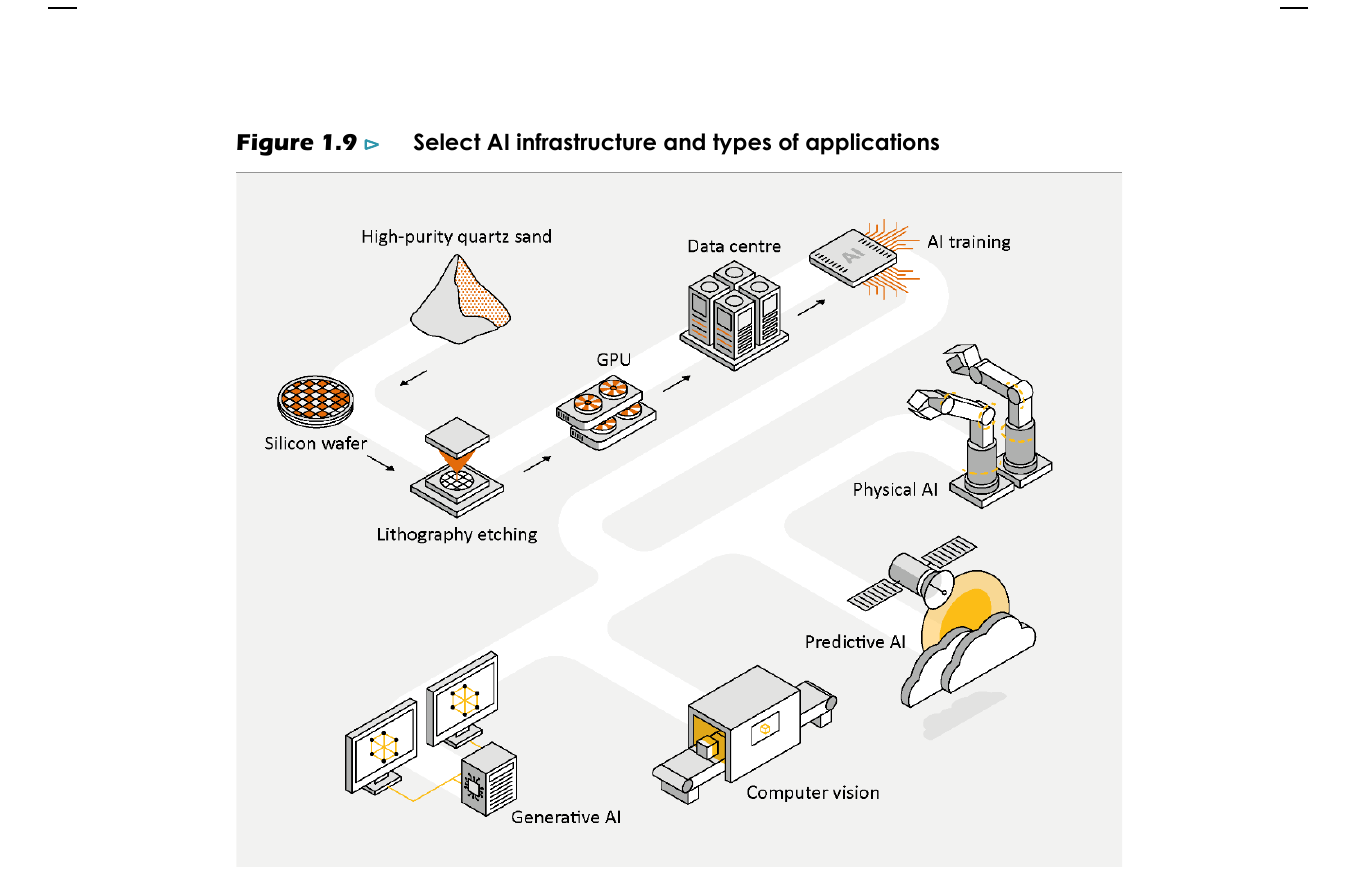
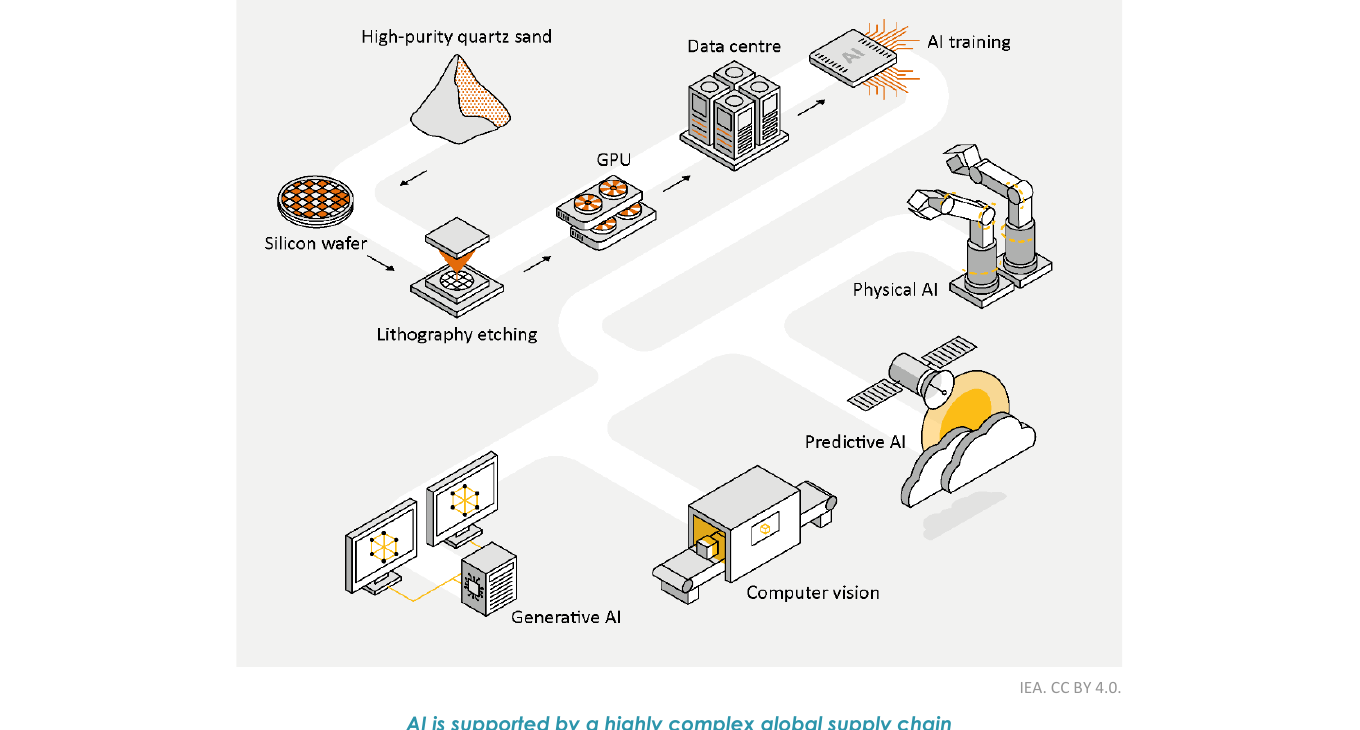
Refine AI slides: fix title, simplify text, update BNEF stat, clean up AI-2
AI-1: Merge subtitle into title; replace wordy text with 2-sentence summary
+ BNEF "nearly two-thirds" fossil fuel stat (BloombergNEF NEO 2025)
AI-2: 60/40 split, larger supply chain image, right side simplified to
5 icon+label items only (no detailed descriptions)

diff --git a/CDE-Outreach-May2026/decarbonization.html b/CDE-Outreach-May2026/decarbonization.html
@@ -716,32 +716,31 @@
 
 <!-- AI-1: AI electricity demand -->
 <section data-background-color="#FFFFFF">
-  <h2>AI Electricity Demand</h2>
+  <h2>AI Electricity Demand: A Fast-Accelerating <span class="nus-orange">"Burden"</span></h2>
   <div class="accent-bar"></div>
-  <p style="font-size:0.72em;color:var(--muted);margin-top:-0.1em;margin-bottom:0.6em;">A Fast-Accelerating <strong style="color:var(--text);">"Burden"</strong></p>
 
-  <div style="display:grid;grid-template-columns:52% 48%;gap:1.4em;margin-top:0.3em;align-items:start;">
+  <div style="display:grid;grid-template-columns:55% 45%;gap:1.6em;margin-top:0.5em;align-items:center;">
 
-    <!-- Left: timeline bars only -->
+    <!-- Left: timeline bars -->
     <div>
-      <div style="font-size:0.57em;font-weight:700;color:var(--muted);text-transform:uppercase;letter-spacing:0.08em;margin-bottom:0.6em;">Global data centre electricity consumption</div>
+      <div style="font-size:0.57em;font-weight:700;color:var(--muted);text-transform:uppercase;letter-spacing:0.08em;margin-bottom:0.65em;">Global data centre electricity consumption</div>
 
-      <div style="margin-bottom:0.7em;">
+      <div style="margin-bottom:0.75em;">
         <div style="display:flex;justify-content:space-between;align-items:baseline;font-size:0.63em;margin-bottom:0.2em;">
           <span style="font-weight:600;">2018</span>
           <span style="color:var(--muted);">~200 TWh &nbsp;·&nbsp; ~1% of global electricity</span>
         </div>
-        <div style="height:24px;background:#E2E8F0;border-radius:6px;">
+        <div style="height:26px;background:#E2E8F0;border-radius:6px;">
           <div style="height:100%;background:#94A3B8;border-radius:6px;width:21%;"></div>
         </div>
       </div>
 
-      <div style="margin-bottom:0.7em;">
+      <div style="margin-bottom:0.75em;">
         <div style="display:flex;justify-content:space-between;align-items:baseline;font-size:0.63em;margin-bottom:0.2em;">
           <span style="font-weight:600;">2024</span>
           <strong style="color:var(--nus-blue);">415 TWh &nbsp;·&nbsp; 1.5% of global electricity</strong>
         </div>
-        <div style="height:24px;background:#E2E8F0;border-radius:6px;">
+        <div style="height:26px;background:#E2E8F0;border-radius:6px;">
           <div style="height:100%;background:var(--nus-blue);border-radius:6px;width:44%;"></div>
         </div>
       </div>
@@ -751,7 +750,7 @@
           <span style="font-weight:600;">2030 <span style="color:var(--muted);font-weight:400;">(projected)</span></span>
           <strong style="color:var(--nus-orange);">~945 TWh &nbsp;·&nbsp; ~3% of global electricity</strong>
         </div>
-        <div style="height:24px;background:#E2E8F0;border-radius:6px;">
+        <div style="height:26px;background:#E2E8F0;border-radius:6px;">
           <div style="height:100%;background:var(--nus-orange);border-radius:6px;width:100%;"></div>
         </div>
       </div>
@@ -761,24 +760,22 @@
       </div>
     </div>
 
-    <!-- Right: key message about fossil fuels -->
-    <div style="display:flex;flex-direction:column;justify-content:center;gap:0.8em;font-size:0.7em;padding-top:0.5em;">
+    <!-- Right: key message -->
+    <div style="display:flex;flex-direction:column;gap:0.9em;font-size:0.72em;">
 
-      <p style="color:var(--text);line-height:1.6;">
-        Ideally, the surge in AI-driven electricity demand should be met entirely by
-        <strong>renewables and clean energy</strong>. However, estimates show that today
-        data centres still rely on <strong style="color:var(--red);">~56% fossil fuels</strong>
-        (coal + gas) for their power supply.
+      <p style="color:var(--text);line-height:1.65;margin:0;">
+        AI is driving a sharp increase in data centre electricity demand.
+        Meeting this with <strong>clean energy</strong> is essential for decarbonization.
       </p>
 
-      <div class="hbox-orange" style="font-size:0.95em;">
-        Coal and gas are projected to meet <strong>&gt;40%</strong> of additional
-        data centre demand through 2030 — making energy transition an urgent necessity,
-        not just an aspiration.
+      <div class="hbox-orange">
+        Nearly <strong>two-thirds</strong> of additional electricity generation
+        to power data centres will still come from fossil fuels —
+        making energy transition an urgent necessity.
       </div>
 
       <div style="font-size:0.75em;color:var(--muted);text-align:right;">
-        Source: IEA, <em>Energy and AI</em> (2025)
+        Source: BloombergNEF, <em>New Energy Outlook</em> (2025)
       </div>
     </div>
   </div>
@@ -789,43 +786,43 @@
   <h2>Environmental Implications of the AI Boom</h2>
   <div class="accent-bar"></div>
 
-  <div style="display:grid;grid-template-columns:50% 50%;gap:1.2em;margin-top:0.3em;align-items:start;">
+  <div style="display:grid;grid-template-columns:60% 40%;gap:1.4em;margin-top:0.3em;align-items:center;">
 
-    <!-- Left: IEA supply chain diagram -->
+    <!-- Left: IEA supply chain diagram (larger) -->
     <div>
       <img src="ai-supply-chain.png"
            style="width:100%;border-radius:8px;border:1px solid var(--border);">
-      <div style="font-size:0.42em;color:var(--muted);margin-top:0.3em;text-align:right;">
-        Source: IEA, <em>Energy and AI</em> (2025), Fig. 1.9. IEA CC BY 4.0
+      <div style="font-size:0.42em;color:var(--muted);margin-top:0.25em;text-align:right;">
+        IEA, <em>Energy and AI</em> (2025), Fig. 1.9 &nbsp;·&nbsp; CC BY 4.0
       </div>
     </div>
 
-    <!-- Right: 5 implications -->
-    <div style="font-size:0.62em;display:flex;flex-direction:column;gap:0.38em;">
+    <!-- Right: 5 items, icon + label only -->
+    <div style="display:flex;flex-direction:column;gap:0.6em;font-size:0.72em;">
 
-      <div class="card card-red" style="padding:0.5em 0.8em;">
-        <span style="font-weight:700;color:var(--red);">① Critical minerals</span><br>
-        <span style="color:var(--muted);">Gallium: 99% refined in China. Rare-earth chips &amp; e-waste from servers replaced every 3–5 yrs <em>(IEA, 2025)</em></span>
+      <div class="card card-red" style="padding:0.65em 1em;display:flex;align-items:center;gap:0.7em;">
+        <span style="font-size:1.6em;flex-shrink:0;">⛏️</span>
+        <span style="font-weight:700;color:var(--red);">Critical Minerals</span>
       </div>
 
-      <div class="card card-red" style="padding:0.5em 0.8em;">
-        <span style="font-weight:700;color:var(--red);">② Water consumption</span><br>
-        <span style="color:var(--muted);">Cooling demand: Google 6.4 B gal/yr, Microsoft 1.7 B gal/yr (2023). Water also carries heat pollution into local waterways</span>
+      <div class="card card-red" style="padding:0.65em 1em;display:flex;align-items:center;gap:0.7em;">
+        <span style="font-size:1.6em;flex-shrink:0;">💧</span>
+        <span style="font-weight:700;color:var(--red);">Water Consumption</span>
       </div>
 
-      <div class="card card-red" style="padding:0.5em 0.8em;">
-        <span style="font-weight:700;color:var(--red);">③ CO₂ emissions</span><br>
-        <span style="color:var(--muted);">180 Mt today → up to 500 Mt by 2035 (high-growth case) — fastest-growing emissions sector <em>(IEA, 2025)</em></span>
+      <div class="card card-red" style="padding:0.65em 1em;display:flex;align-items:center;gap:0.7em;">
+        <span style="font-size:1.6em;flex-shrink:0;">🌫️</span>
+        <span style="font-weight:700;color:var(--red);">CO₂ Emissions</span>
       </div>
 
-      <div class="card card-red" style="padding:0.5em 0.8em;">
-        <span style="font-weight:700;color:var(--red);">④ Air pollution</span><br>
-        <span style="color:var(--muted);">Fossil-fuel plants built to supply data centres emit NOₓ, SO₂ and fine particulates alongside CO₂</span>
+      <div class="card card-red" style="padding:0.65em 1em;display:flex;align-items:center;gap:0.7em;">
+        <span style="font-size:1.6em;flex-shrink:0;">🏭</span>
+        <span style="font-weight:700;color:var(--red);">Air Pollution</span>
       </div>
 
-      <div class="card card-red" style="padding:0.5em 0.8em;">
-        <span style="font-weight:700;color:var(--red);">⑤ Rising electricity prices</span><br>
-        <span style="color:var(--muted);">Data centres competing for grid capacity create trade-offs against household affordability and industrial growth <em>(IEA, 2025)</em></span>
+      <div class="card card-red" style="padding:0.65em 1em;display:flex;align-items:center;gap:0.7em;">
+        <span style="font-size:1.6em;flex-shrink:0;">📈</span>
+        <span style="font-weight:700;color:var(--red);">Rising Electricity Prices</span>
       </div>
 
     </div>